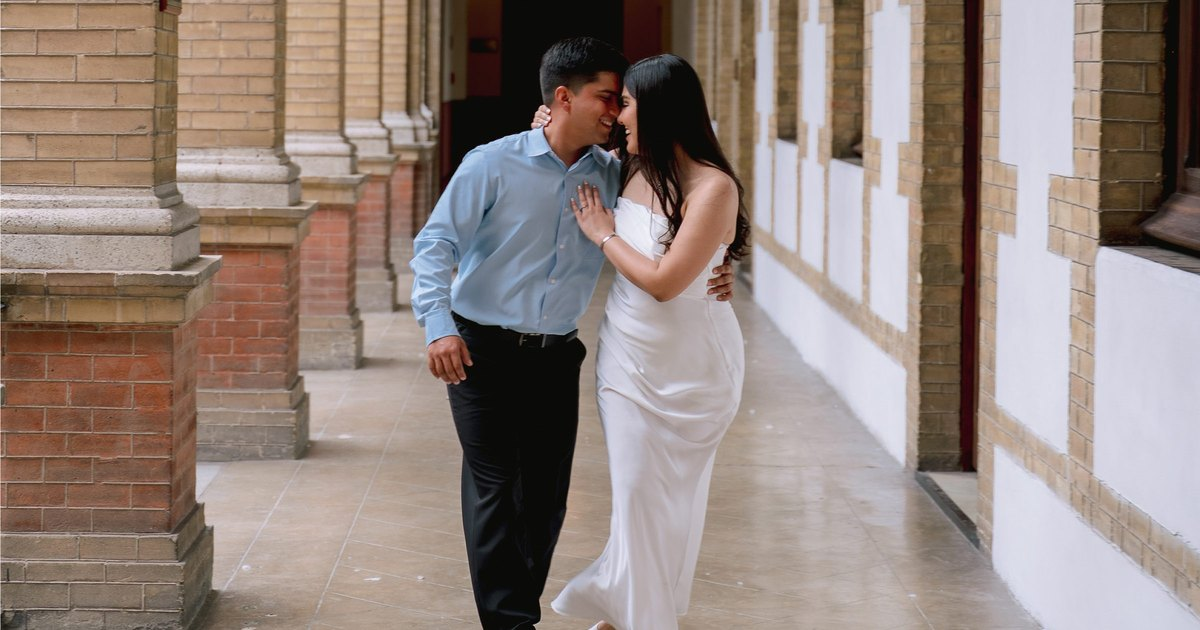
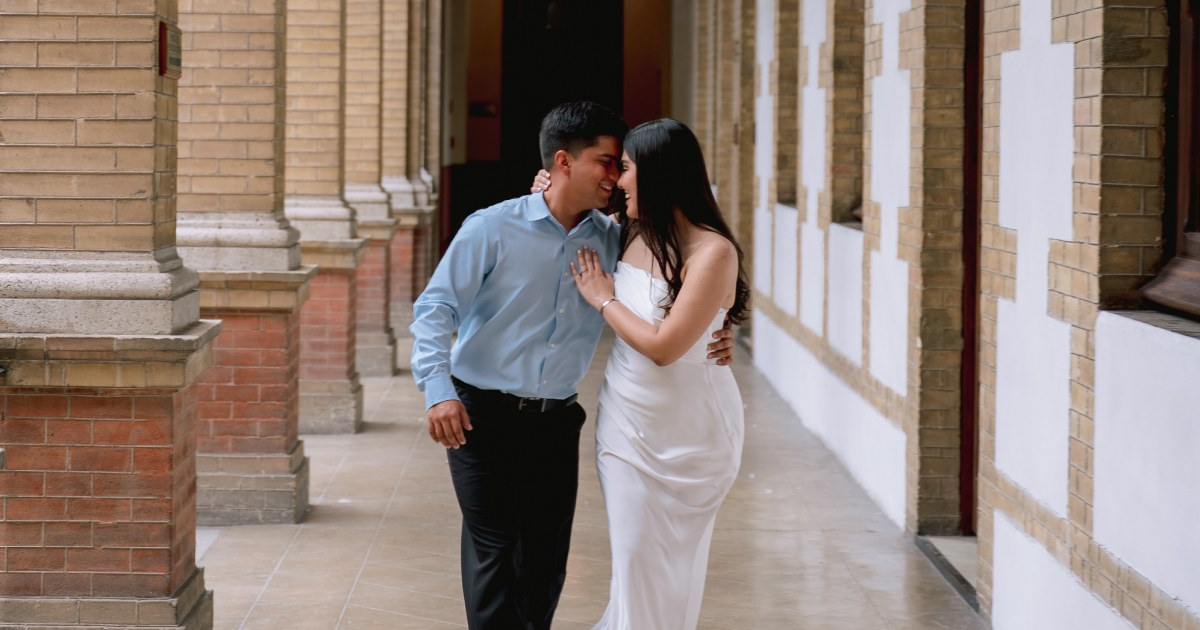
Sustituye la foto de Open Graph por una entregada para esto
La vista previa de WhatsApp era un recorte del hero, provisional hasta que
hubiera una foto pensada para el formato. Ya la hay, asi que ocupa su sitio
conservando el nombre fyr-og.jpg, como pedia la nota de cabecera: los cuatro
meta y las dos notas que los explican siguen valiendo sin tocarlos. El
argumento habitual para renombrar —romper la cache de Facebook— aqui no
aplica, porque el dominio todavia no resuelve y no hay nada cacheado.

Llego a 1200x630, la medida que ya declaran og:image:width/height, asi que no
hubo que recortar. Solo se recomprimio: 662 -> 127 KB (-81%).

  calidad 92   155 KB   41.20 dB
  calidad 90   140 KB   40.63 dB
  calidad 88   127 KB   40.13 dB   <- elegida
  calidad 86   117 KB   39.71 dB
  calidad 82   100 KB   39.04 dB

Medido en PSNR contra el original. Por encima de 40 dB la perdida no se ve, y
127 KB cae justo en el peso del archivo que sustituye (126 KB), asi que no
cambia el comportamiento ya conocido.

Baseline y no progresivo, como pide la nota de la linea 66 por el generador de
miniaturas de WhatsApp; el primer barrido salio progresivo y se rehizo al leerla.
Subsampling 4:2:0, que no hay texto en la foto que lo sufra, y fuera el perfil
ICC (era sRGB, 456 bytes, que es lo que todas las plataformas asumen igualmente).

Se borra images/fr-opengraph.jpg, que era la fuente sin comprimir.

Claude-Session: https://claude.ai/code/session_01SipZ7gBMn63JMhLNUFduCb

diff --git a/index.html b/index.html
@@ -7,9 +7,10 @@
   <!-- ==========================================================================
        PENDIENTE DE MATERIAL PROPIO DE FERNANDA & ROBERTO
        Las fotos ya son las suyas, escritorio y movil (sufijo -fr).
-       images/fyr-og.jpg (la vista previa de WhatsApp) se genero recortando el hero
-       a 1200x630; si algun dia hay una foto pensada para esto, sustituirla
-       conservando el nombre y el formato (JPEG baseline, no progresivo).
+       images/fyr-og.jpg (la vista previa de WhatsApp) ya es una foto entregada
+       para esto, no el recorte del hero que habia antes: llego a 1200x630 y solo
+       se recomprimio (baseline, calidad 88, de 662 a 127 KB). Si se sustituye,
+       conservar el nombre y el formato (JPEG baseline, no progresivo).
 
        Las 31 fotos se guardan al mismo tamano y compresion que traia la plantilla
        (JPEG progresivo, calidad 82): los originales de la sesion venian a 26 MB
